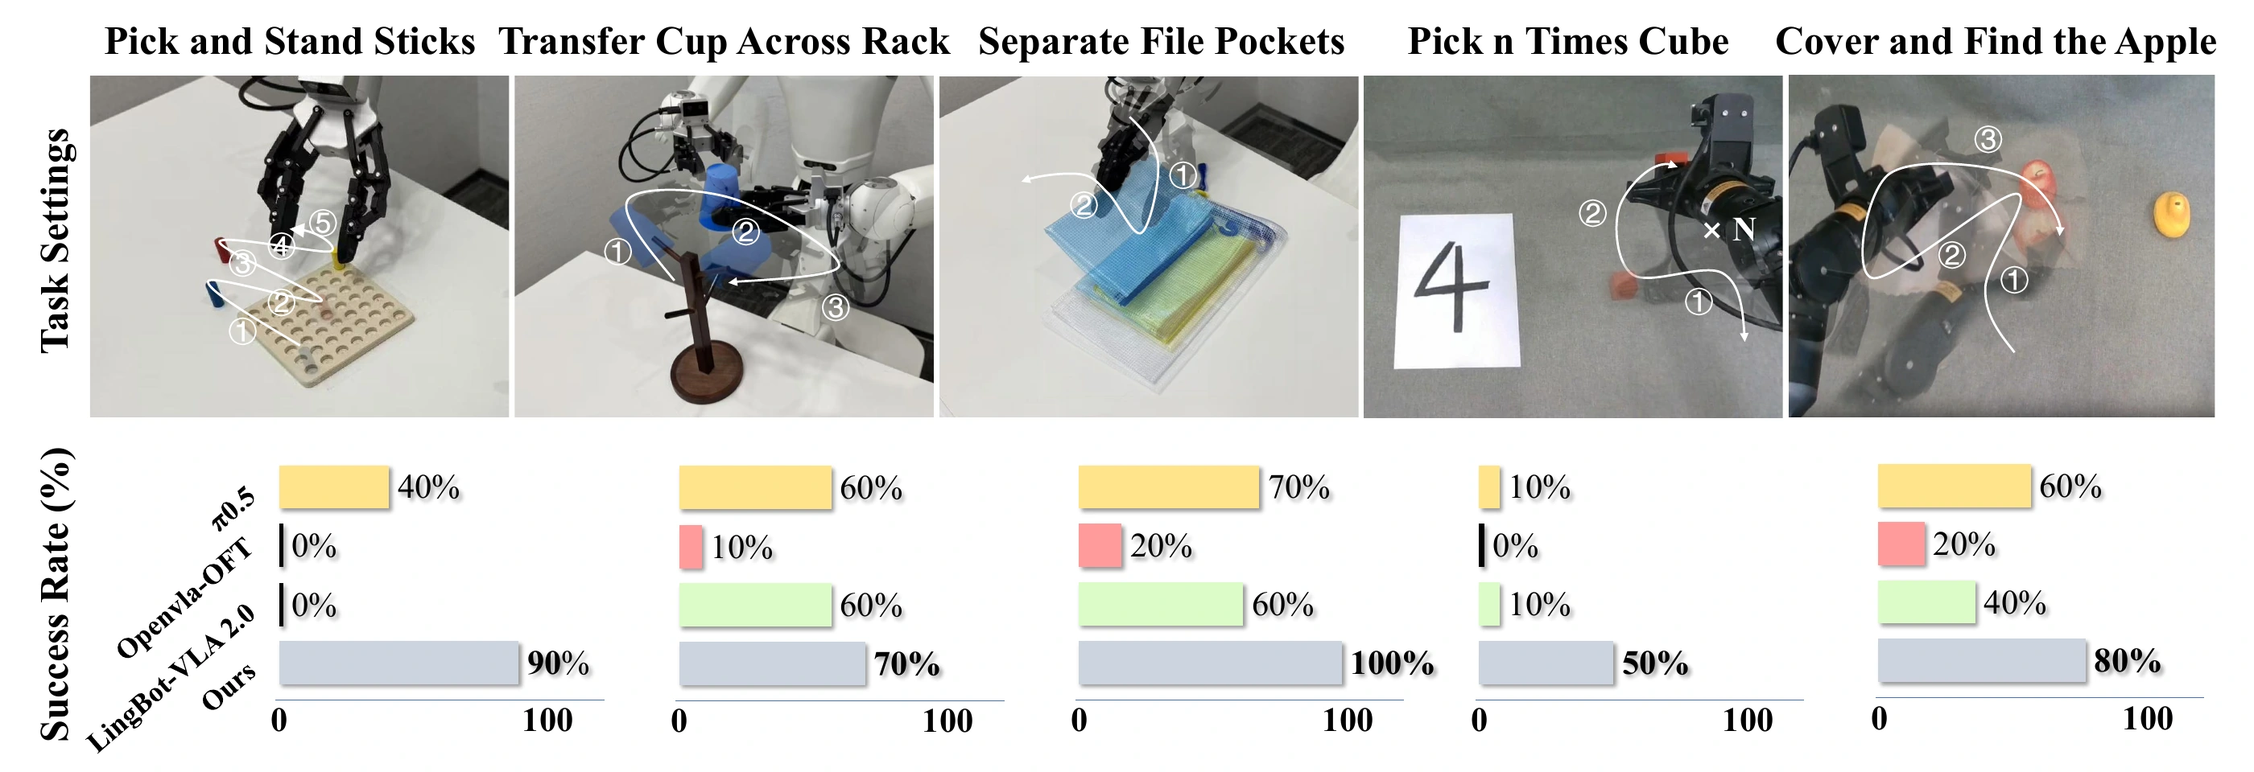
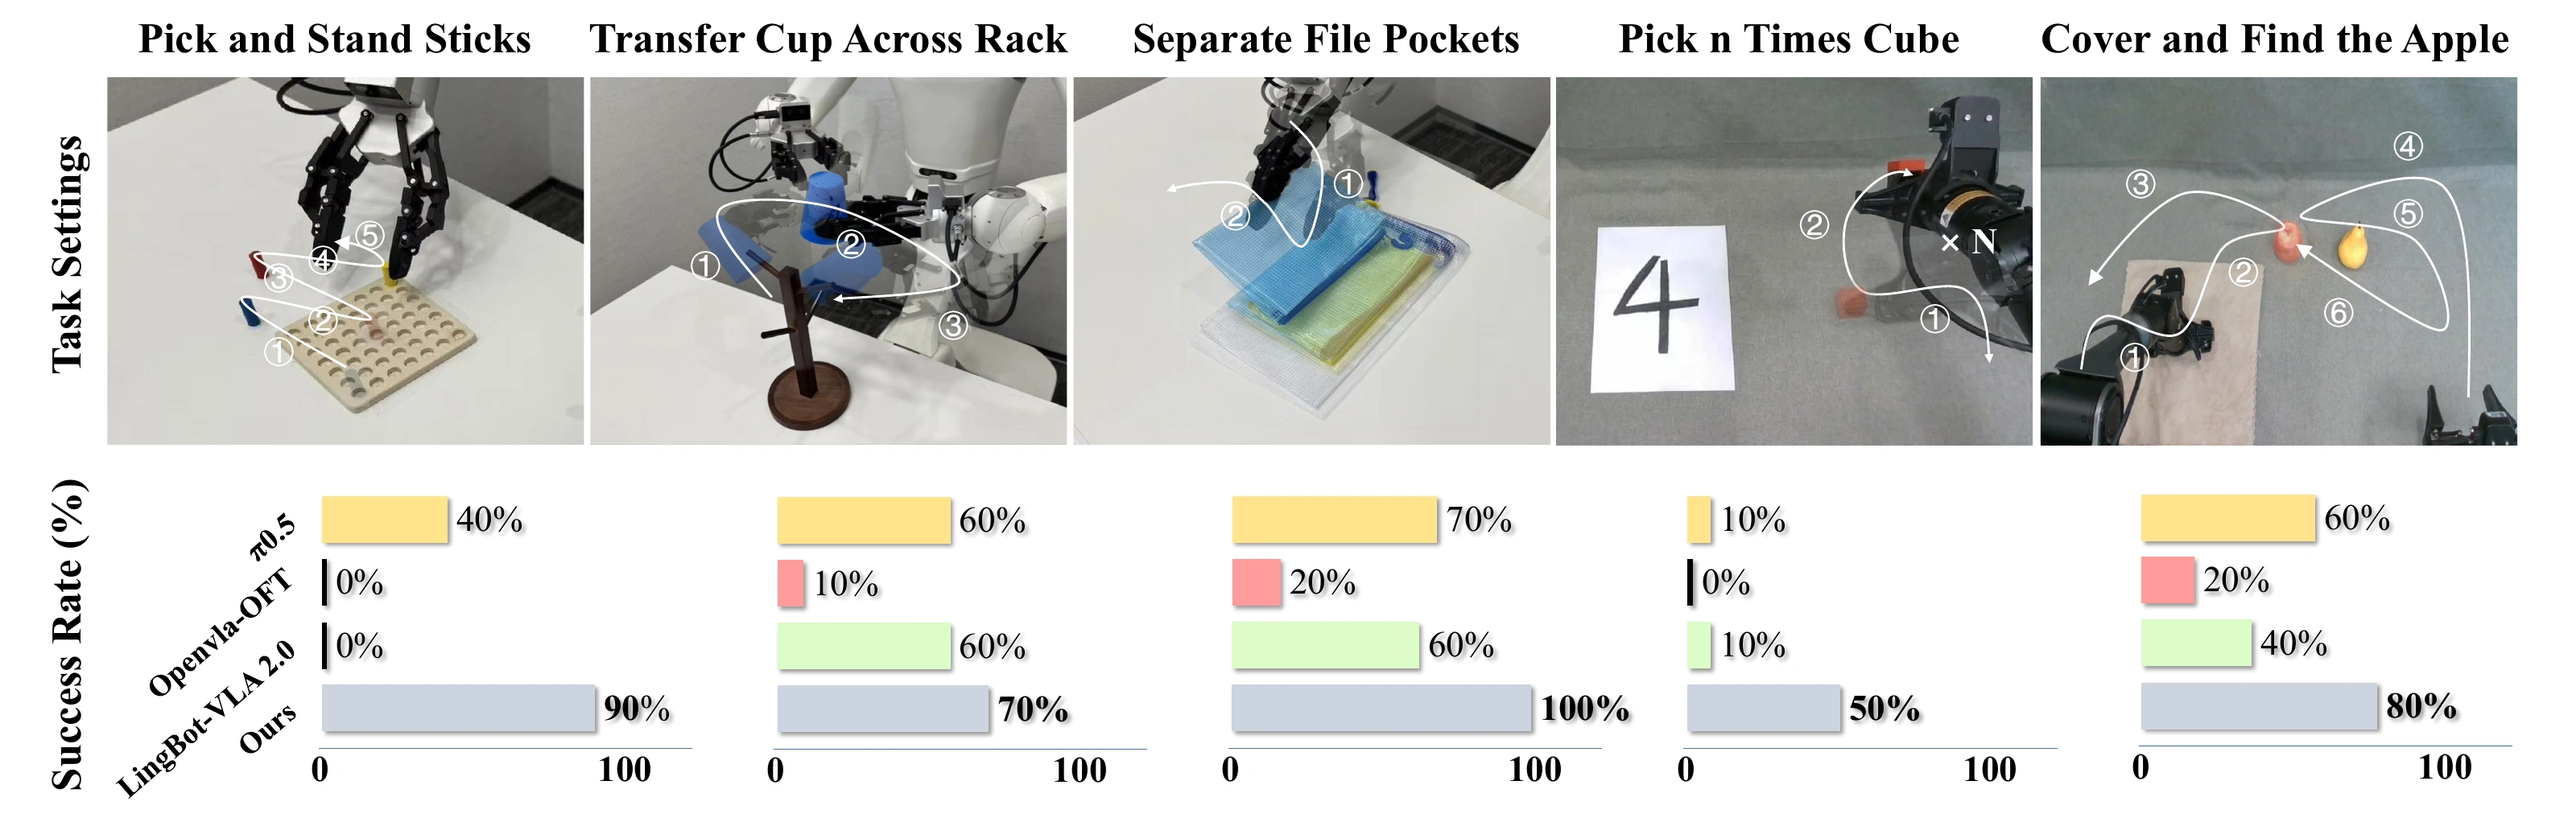
Update real-world experiment results figure

diff --git a/index.html b/index.html
@@ -175,7 +175,7 @@
     </section>
     <section id="real-world" class="section">
       <h2>Real-World Experiments</h2>
-      <figure class="figure real-world-summary" id="real-world-results"><button class="zoomable" data-zoom="assets/images/real-world-results.webp" aria-label="Enlarge Real-world success rates"><img src="assets/images/real-world-results.webp" width="2800" height="960" loading="lazy" alt="Real-world success rates"></button></figure>
+      <figure class="figure real-world-summary" id="real-world-results"><button class="zoomable" data-zoom="assets/images/real-world-results.webp?v=20261022" aria-label="Enlarge Real-world success rates"><img src="assets/images/real-world-results.webp?v=20261022" width="3200" height="1017" loading="lazy" alt="Real-world success rates"></button></figure>
       <div class="gallery task-gallery" data-gallery role="region" aria-roledescription="carousel" aria-label="Real-world tasks">
         <div class="gallery-stage">
           <figure class="task gallery-slide" data-slide data-title="Pick and Stand Sticks">
